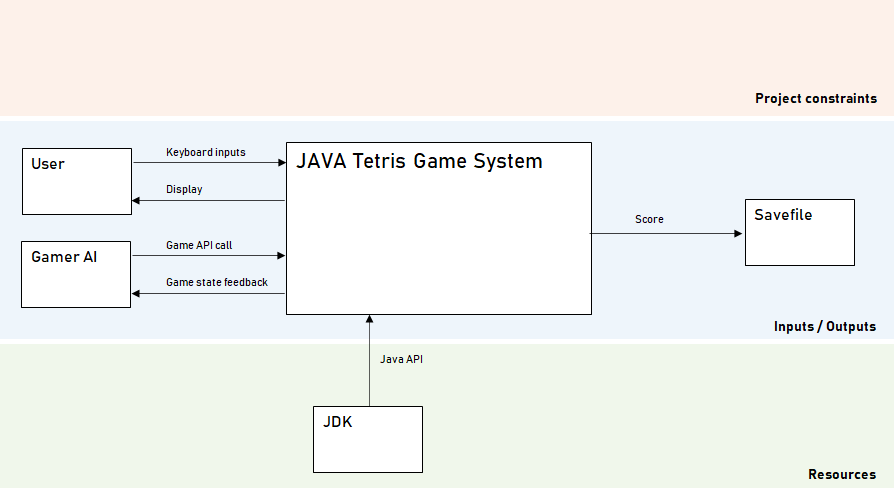
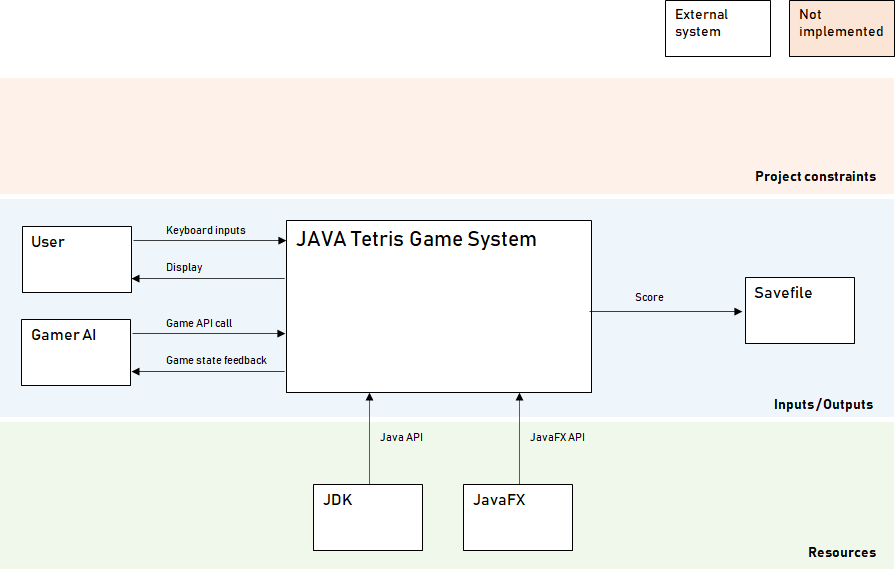
Completed readme

diff --git a/src/com/game/compute/GenericBlock.java b/src/com/game/compute/GenericBlock.java
@@ -66,7 +66,7 @@ public class GenericBlock {
         rotating a square matrix is equivalent to transposing it then getting its image by
         symetry along the vertical axis
          */
-        _blockMatrix = _transposeBlock(_symAxis1Block(_blockMatrix));
+        _blockMatrix = transposeBlock(symAxis1Block(_blockMatrix));
 
     }
 
@@ -75,12 +75,12 @@ public class GenericBlock {
         rotating a square matrix is equivalent to transposing it then getting its image by
         symetry along the vertical axis
          */
-        boolean[][] temp = _transposeBlock(_symAxis1Block(matrix));
+        boolean[][] temp = transposeBlock(symAxis1Block(matrix));
         return temp;
 
     }
 
-    protected boolean[][] _transposeBlock(boolean[][] matrix) {
+    protected boolean[][] transposeBlock(boolean[][] matrix) {
         /*
         this matrix yields the transposed of the _blockMatrix
          */
@@ -93,7 +93,7 @@ public class GenericBlock {
         return temp;
     }
 
-    protected boolean[][] _symAxis1Block(boolean[][] matrix) {
+    protected boolean[][] symAxis1Block(boolean[][] matrix) {
         /*
         this (not so elegant) methods get the symetric of the _blockMatrix along the vertical axis
         it is not generalized to n*m matrices --> will work only for 3x3

diff --git a/src/com/game/compute/CurrentBlock.java b/src/com/game/compute/CurrentBlock.java
@@ -25,11 +25,11 @@ public class CurrentBlock extends GenericBlock {
         _globalBlockMatrix =
                 new boolean[_gameHeight + CLIPPING_WIDTH][_gameWidth + 2 * CLIPPING_WIDTH];
 
-        _resetGlobalBlockMatrix();
+        resetGlobalBlockMatrix();
 
     }
 
-    private void _resetGlobalBlockMatrix() {
+    private void resetGlobalBlockMatrix() {
 
         for (boolean[] row : _globalBlockMatrix) {
             Arrays.fill(row, false);
@@ -82,7 +82,7 @@ public class CurrentBlock extends GenericBlock {
     For a rotation: translate the block in order to have a rotation along the center of gravity (and not along
     the (0,0) cell)
      */
-        _resetGlobalBlockMatrix();
+        resetGlobalBlockMatrix();
         int startRowIndex;
         int startColumnsIndex;
 

diff --git a/src/com/game/compute/GameManager.java b/src/com/game/compute/GameManager.java
@@ -46,7 +46,7 @@ public class GameManager {
         }
     }
 
-    public synchronized void instantiateCurrentBlock() {
+    private synchronized void instantiateCurrentBlock() {
         int randomNum = ThreadLocalRandom.current().nextInt(0, 6 + 1);
         _currentBlock = new CurrentBlock(randomNum, 0, _gameWidth, _gameHeight);
         _currentBlockMatrix = _currentBlock.getGlobalBlockMatrix();

diff --git a/README.md b/README.md
@@ -14,6 +14,8 @@ Click on the start button to play the game. use the left and right arrow keys to
 current block. 
 Press the down arrow key to accelerate the descent.
 Press the CTRL key to rotate the block
+The game speed is fixed.
+When the blocks reach the top of the screen, the game is over.
 
 ## Support
 
@@ -48,14 +50,44 @@ exchanges the system (represented as a black box) has with the outside.
 ### Functional considerations
 This section regroups the behaviors which are expected to be followed by the 
 game system in order to meet the use cases.
+The principle is the following: 
+
+- There are 2 matrices which dimensions correspond to the screen size. The current block matrix
+corresponds to the position of the cells of the current block within the screen. The second is the
+representation of all cells occupied by static (docked) blocks.
+
+- At each time tick, the current block is forced down, this forced descent
+is combined with user (keyboard) inputs allowing to move the current block
+ right or left, to make it rotate or to accelerate its descent
+ 
+- Each clock tick or user action cause the current block matrix to be computed again, fused 
+ with the static blocks matrix, and displayed
+
+- When a block reaches the bottom of the screen, or the top boundary of the static block
+stack, it is docked and added to the static blocks matrix. 
+
+- If a line is completed, it disappears from the screen, and the score is updated. 
+Several lines (up to 4) can be completed at the same time.
+The score is computed in accordance with standard Tetris rules.
+
+- When one of the cell of the static blocks matrix is filled at the top of the screen, 
+the game is over.
+ 
 The following diagram illustrates the systems functions (that will be implemented 
-through JAVA classes and the interactions between these functions.
+through JAVA classes and the interactions between these functions. The functions highlighted
+in orange corresponds to future use cases and have not been implemented as of now.
 
 ![logo](Illustrations/FuncInteractions.png)
 
 ### Logical considerations
 This section regroups the software classes, objects and methods which are required in order
-to implement the functions.
+to implement the functions. The implementation has been designed to stick - as much as possible - with the Model View 
+Controller (MVC) pattern.
+The following diagram represents the classes which are implemented in Java. The classes highlighed in orange
+correspond to future use cases and have not been coded as of now.
+
+
+![logo](Illustrations/ClassDIagram.png)
 
 ### Technical considerations
 The GUI framework is javafx. JavaFX is not included anymore in
